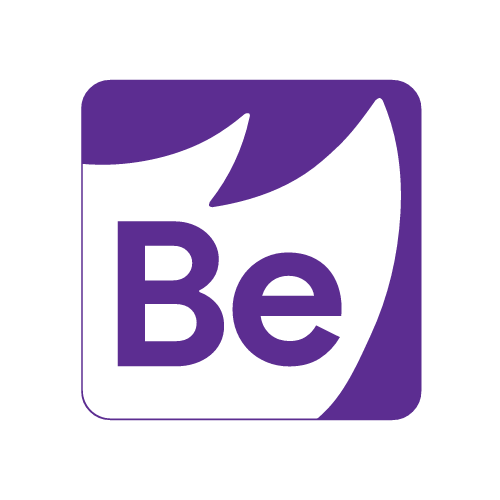
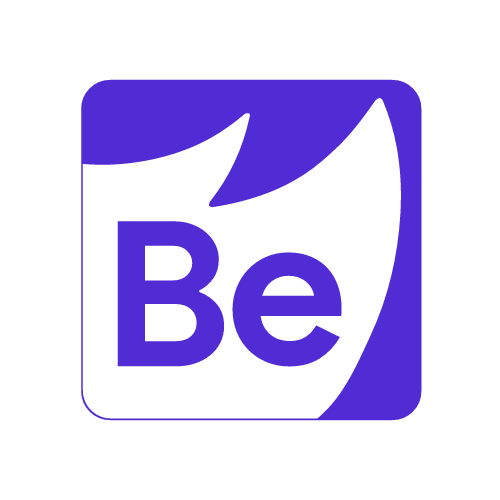
Update branding colors and assets for BlazorExpress
- Changed navbar brand image size and added a new class for styling.
- Updated CSS for navbar brand image to include padding, border-radius, and background color.
- Modified SVG logos and icons to use the new primary color (#512BD4) instead of previous colors.
- Updated README and assets.json to reflect the new branding color.
- Regenerated various image assets including favicons and logos for consistency across branding.

Changed region(s): [[0.15, 0.15, 0.87, 0.84], [0.21, 0.42, 0.69, 0.75]]

diff --git a/BlazorExpress.ChartJS.Demo.RCL/wwwroot/js/blazorexpress.chartjs.demo.rcl.js b/BlazorExpress.ChartJS.Demo.RCL/wwwroot/js/blazorexpress.chartjs.demo.rcl.js
@@ -1755,10 +1755,11 @@ window.homeSelfCheck = (() => {
         return result('S-18 Navbar: unnamed controls, new-tab links without noopener, controls without a tab stop and button role, duplicate ids', '0, 0, 0, 0', `${unnamed}, ${unsafe}, ${noTab}, ${duplicates}`);
     }
 
-    function heritageLayout({ doc }, width, theme, expected) {
+    function heritageLayout(page, width, theme, expected) {
+        const { doc, win } = page;
         const link = doc.querySelector('.be-demo-navbar .navbar-brand a.navbar-item');
         const name = link?.querySelector('.be-navbar-brand-name');
-        const navbarMark = link?.querySelector('img');
+        const navbarMark = link?.querySelector('.be-navbar-brand-mark');
         const footerMark = doc.querySelector('.be-footer-brand img');
         const footerName = doc.querySelector('.be-footer-brand-name');
         const loaded = mark => !!mark?.naturalWidth && new URL(mark.currentSrc).pathname.endsWith(expected.heritageLogo);
@@ -1768,8 +1769,14 @@ window.homeSelfCheck = (() => {
             return rect.width > 0 && rect.left >= 0 && rect.right <= doc.documentElement.clientWidth
                 && element.scrollWidth <= element.clientWidth;
         };
+        const markBox = navbarMark?.getBoundingClientRect();
+        const backing = navbarMark && parse(win.getComputedStyle(navbarMark).backgroundColor);
+        const stops = gradientStops(page);
+        const visibleMark = markBox?.width >= 36 && markBox?.height >= 36 && fits(navbarMark)
+            && backing?.a === 1 && stops.length === 2 && stops.every(stop => ratio(backing, stop) >= 3);
         return [
             result(`Heritage ${theme} ${width}px: both marks load`, true, loaded(navbarMark) && loaded(footerMark)),
+            result(`Heritage ${theme} ${width}px: navbar mark fits and backing contrasts with the gradient`, true, visibleMark),
             result(`Heritage ${theme} ${width}px: complete names fit the layout`, true,
                 fits(name) && fits(footerName) && name.textContent.trim() === expected.brandName
                 && footerName.textContent.trim() === expected.brandName),

diff --git a/BlazorExpress.ChartJS.Demo.RCL/wwwroot/css/blazorexpress.chartjs.demo.rcl.css b/BlazorExpress.ChartJS.Demo.RCL/wwwroot/css/blazorexpress.chartjs.demo.rcl.css
@@ -1098,8 +1098,13 @@ a.be-sample-card:hover {
         min-width: 0;
     }
 
-        .be-demo-navbar .navbar-brand .navbar-item img {
+        .be-demo-navbar .navbar-brand .be-navbar-brand-mark {
             flex: none;
+            box-sizing: border-box;
+            max-height: none;
+            padding: 2px;
+            border-radius: 5px;
+            background-color: #fff;
         }
 
         .be-demo-navbar .navbar-brand .be-navbar-brand-name {

diff --git a/branding/README.md b/branding/README.md
@@ -1,12 +1,12 @@
 # BlazorExpress Heritage branding
 
-The family uses one badge-free **Be** mark. Use the full identity name in wordmarks, link cards, and other placements with room for text.
+The family uses one badge-free **Be** mark in .NET purple (`#512BD4`). Use the full identity name in wordmarks, link cards, and other placements with room for text.
 
-| Identity | Default color | Ready-to-use kit |
-| --- | --- | --- |
-| BlazorExpress | Purple `#5C2D91` | [BlazorExpress](exports/blazorexpress/) |
-| BlazorExpress.Bulma | Teal `#087F6D` | [Bulma](exports/bulma/) |
-| BlazorExpress.ChartJS | Blue `#1A559C` | [ChartJS](exports/chartjs/) |
+| Identity | Ready-to-use kit |
+| --- | --- |
+| BlazorExpress | [BlazorExpress](exports/blazorexpress/) |
+| BlazorExpress.Bulma | [Bulma](exports/bulma/) |
+| BlazorExpress.ChartJS | [ChartJS](exports/chartjs/) |
 
 | Use | File | Placement |
 | --- | --- | --- |
@@ -19,7 +19,7 @@ The family uses one badge-free **Be** mark. Use the full identity name in wordma
 | Website link card | `website-card.png` | Serve the 1200 × 630 PNG at a public URL and use that URL in the Open Graph and Twitter image tags. |
 | Repository link preview | `github-preview.png` | Upload the 1280 × 640 PNG in **Settings → Social preview** for the Bulma or ChartJS repository. Use the separate website card for site links. |
 
-ChartJS serves the blue demo logo and loader, uses the favicon at the existing demo URL with the 16 px variant alongside it, and uses the blue card as the demo's default share image. Its README and NuGet packaging share the existing `nuget/logo.png` path. The purple and teal kits are ready for their maintainers to apply.
+ChartJS serves the purple demo logo and loader, uses the favicon at the existing demo URL with the 16 px variant alongside it, and uses the purple card as the demo's default share image. Its README and NuGet packaging share the existing `nuget/logo.png` path. The BlazorExpress and Bulma kits are ready for their maintainers to apply.
 
 ## Edit and regenerate
 
